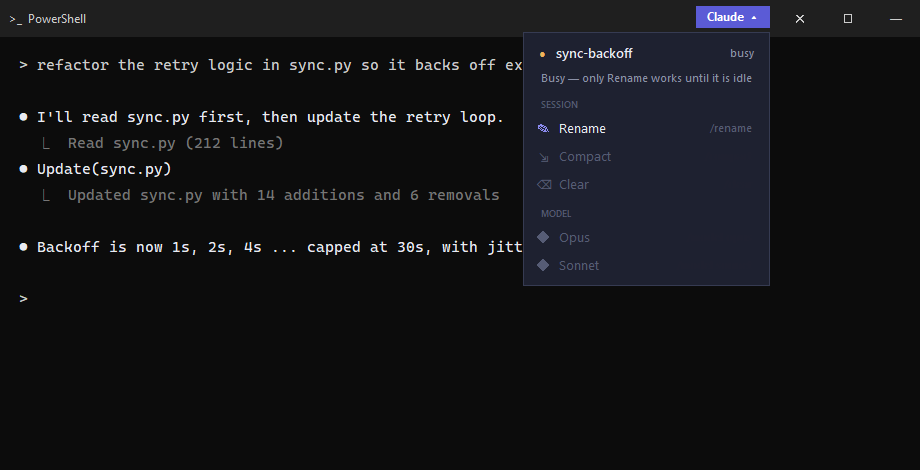
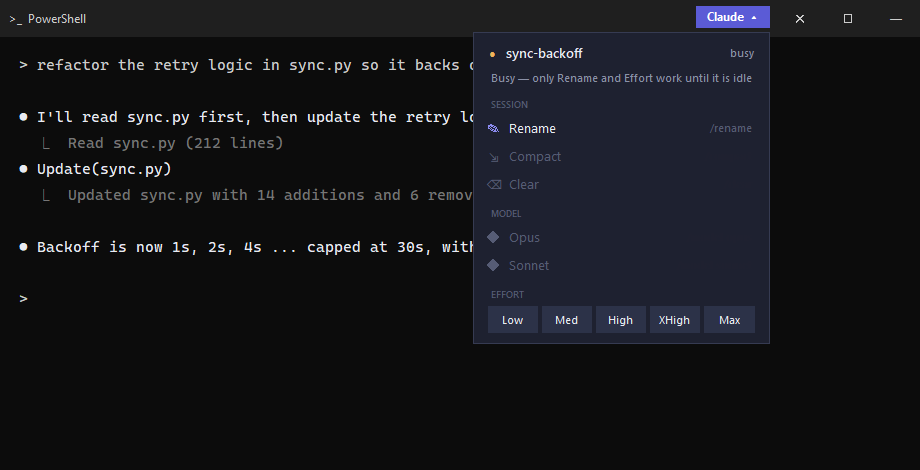
Add effort menu: one-click /effort low|medium|high|xhigh|max (#1)
Effort buttons sit in a chip row under Model. They work while the session is
busy (Claude Code applies /effort mid-turn), and Enter is pressed after the
command in case the prompt-cache warning appears.

Changed region(s): [[0.487, 0.0596, 0.8522, 0.7447]]

diff --git a/tools/make_screenshots.py b/tools/make_screenshots.py
@@ -109,4 +109,4 @@ if __name__ == "__main__":
     shot("menu-idle.png", [{"pid": 1, "name": "sync-backoff", "status": "idle"}])
     shot("menu-busy.png", [{"pid": 1, "name": "sync-backoff", "status": "busy"}])
     shot("menu-multi.png", [{"pid": 1, "name": "sync-backoff", "status": "idle"},
-                            {"pid": 2, "name": "docs-cleanup", "status": "busy"}], H=560)
+                            {"pid": 2, "name": "docs-cleanup", "status": "busy"}], H=700)

diff --git a/README.md b/README.md
@@ -21,8 +21,9 @@ a slash command.
 | Session | Clear   | `/clear`                               |
 | Model   | Opus    | `/model opus` + confirms the prompt    |
 | Model   | Sonnet  | `/model sonnet` + confirms the prompt  |
+| Effort  | Low / Med / High / XHigh / Max | `/effort <level>` + confirms a cache warning if shown |
 
-While a session is busy only **Rename** works; the rest are greyed out:
+While a session is busy only **Rename** and **Effort** work; the rest are greyed out:
 
 ![Busy session](docs/menu-busy.png)
 
@@ -60,7 +61,7 @@ pythonw claude_tab.pyw            # run now, in the background
 
 ## Settings
 
-Constants at the top of `claude_tab.pyw`: `MODELS`, `SIMPLE`, `CONFIRMED`, `CONFIRM_DELAYS_MS`,
+Constants at the top of `claude_tab.pyw`: `MODELS`, `EFFORTS`, `SIMPLE`, `CONFIRMED`, `CONFIRM_DELAYS_MS`,
 `OFFSET_RIGHT` / `OFFSET_TOP` (handle position) and the colour constants (`BG`, `HOVER`, `ACCENT`, …).
 
 ## Limits
